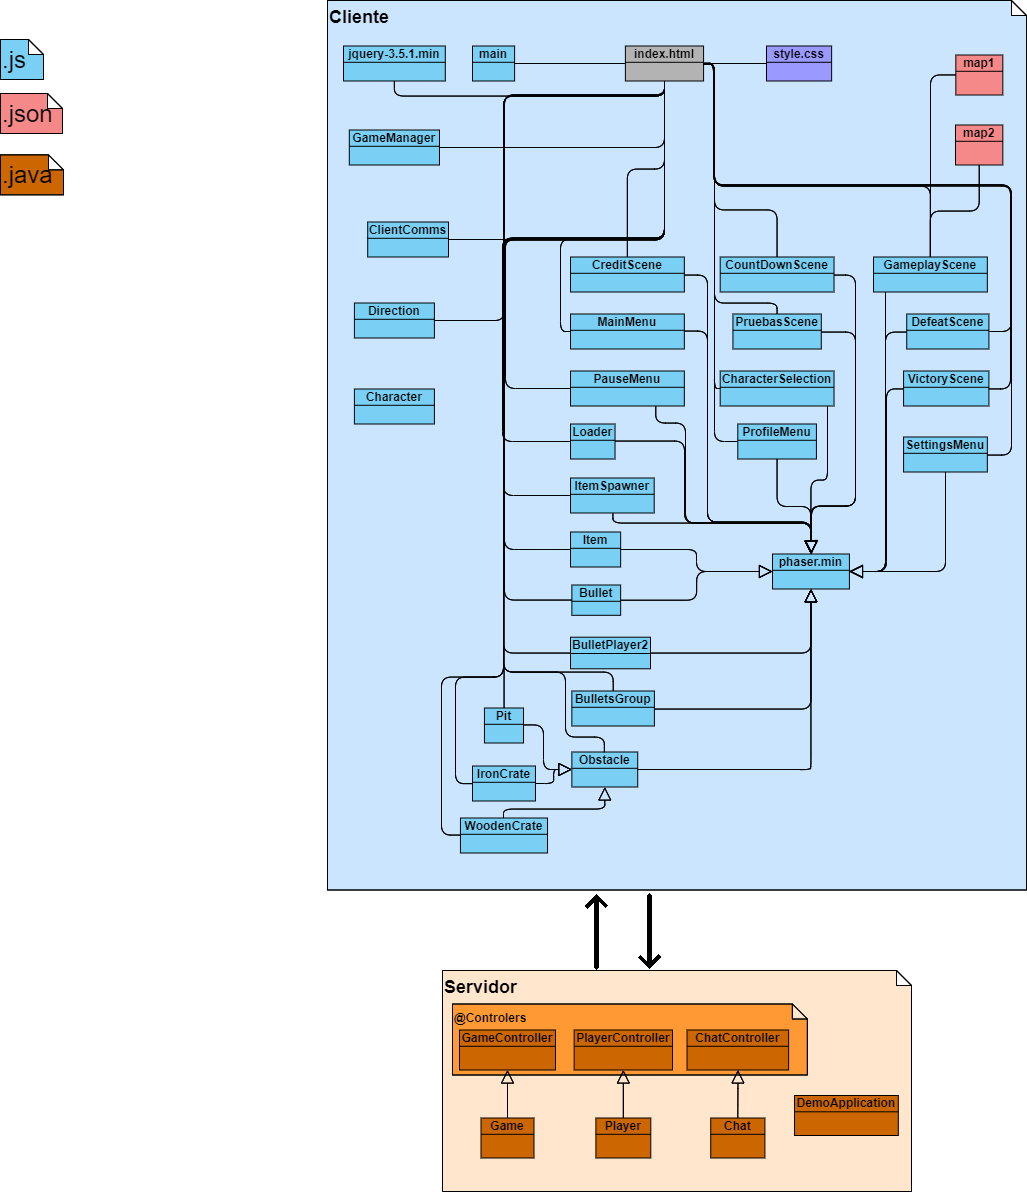
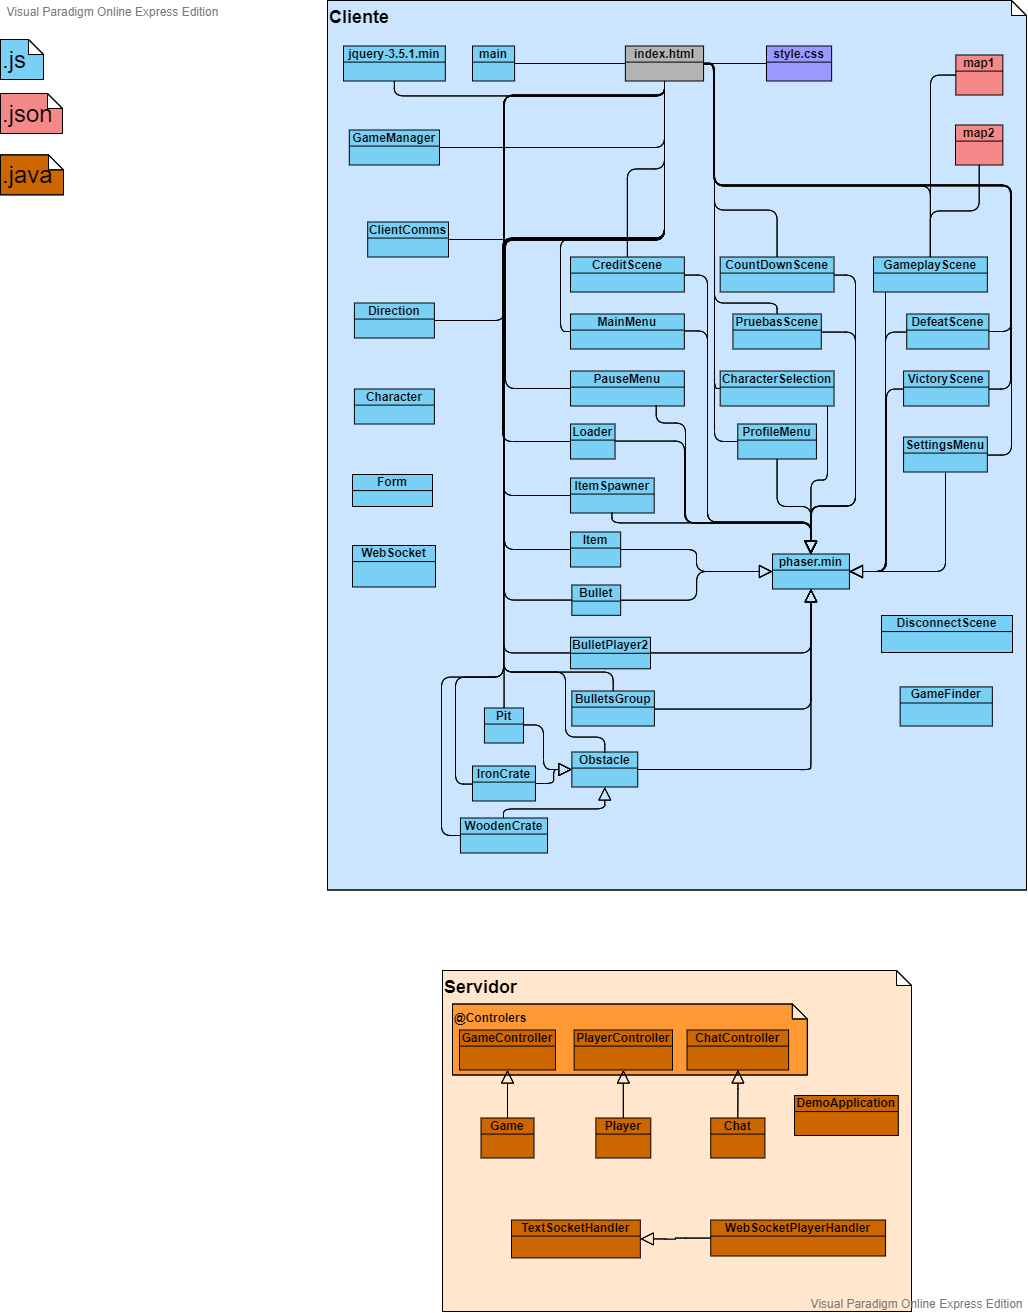
ReadMe Actualizado

Changed region(s): [[0.3116, 0.0, 1.0, 1.0], [0.0, 0.0, 0.2181, 0.1862], [0.4674, 0.2794, 0.4985, 0.3414]]

diff --git a/demo/target/classes/static/src/scenes/VictoryScene.js b/demo/target/classes/static/src/scenes/VictoryScene.js
@@ -11,16 +11,11 @@ class VictoryScene extends Phaser.Scene {
   create() {
     this.add.image(this.game.renderer.width / 2, this.game.renderer.height / 2, "MarcoPausa");
 
-    //añade el jugador que ha ganado
-    if (this.winner == 1) {
+    //Imagen victoria
       var victory = this.add
-        .image(this.game.renderer.width / 2, (this.game.renderer.height * 2) / 5, "VictoryJ1")
+        .image(this.game.renderer.width / 2, (this.game.renderer.height * 2) / 5, "Victory")
         .setScale(0);
-    } else if (this.winner == 2) {
-      var victory = this.add
-        .image(this.game.renderer.width / 2, (this.game.renderer.height * 2) / 5, "VictoryJ2")
-        .setScale(0);
-    }
+
     //Confeti
     var confeti1 = this.add.particles("confeti1");
     var confeti2 = this.add.particles("confeti2");
@@ -56,35 +51,42 @@ class VictoryScene extends Phaser.Scene {
       blendMode: "ADD",
     });
 
-    if(game.config.localMode){
+    if (game.config.localMode) {
       //boton de rematch
-    let rematchButton = this.add
-    .image(this.game.renderer.width / 2, (this.game.renderer.height * 2.9) / 5, "Purple_TextBox")
-    .setScale(0)
-    .setActive(false)
-    .setVisible(false);
+      let rematchButton = this.add
+        .image(
+          this.game.renderer.width / 2,
+          (this.game.renderer.height * 2.9) / 5,
+          "Purple_TextBox"
+        )
+        .setScale(0)
+        .setActive(false)
+        .setVisible(false);
 
-  rematchButton.setInteractive();
+      rematchButton.setInteractive();
 
-  let rematchText = this.add
-    .image(this.game.renderer.width / 2, (this.game.renderer.height * 2.9) / 5, "VolverAJugar")
-    .setScale(0)
-    .setActive(false)
-    .setVisible(false);
+      let rematchText = this.add
+        .image(this.game.renderer.width / 2, (this.game.renderer.height * 2.9) / 5, "VolverAJugar")
+        .setScale(0)
+        .setActive(false)
+        .setVisible(false);
 
-  //efectos al pasar el raton por encima
-  rematchButton.on("pointerover", () => {
-    rematchButton.setTint(0x909090);
-  });
-  rematchButton.on("pointerout", () => {
-    rematchButton.setTint();
-  });
+      //efectos al pasar el raton por encima
+      rematchButton.on("pointerover", () => {
+        rematchButton.setTint(0x909090);
+      });
+      rematchButton.on("pointerout", () => {
+        rematchButton.setTint();
+      });
 
-  //Al pulsar el boton recarga la escena de gameplay
-  rematchButton.on("pointerdown", () => {
-    this.scene.stop();
-    this.scene.start("GameplayScene");
-  });
+      //Al pulsar el boton recarga la escena de gameplay
+      rematchButton.on("pointerdown", () => {
+        this.scene.stop();
+        this.scene.start("GameplayScene");
+      });
+
+      rematchButton.setActive(false);
+      rematchButton.setVisible(false);
     }
 
     //boton de vuleta la menu principal
@@ -115,8 +117,6 @@ class VictoryScene extends Phaser.Scene {
       this.scene.start("MainMenu");
     });
 
-    rematchButton.setActive(false);
-    rematchButton.setVisible(false);
     mainMenuButton.setActive(false);
     mainMenuButton.setVisible(false);
 
@@ -126,16 +126,23 @@ class VictoryScene extends Phaser.Scene {
       delay: 1000,
       callback: () => {
         //al pasar 1 segundo aparecen los botones
-        rematchButton.setActive(true);
-        mainMenuButton.setActive(true);
-        rematchButton.setVisible(true);
+        if (game.config.localMode) {
+          rematchButton.setVisible(true);
+          rematchText.setVisible(true);
+
+          this.tweens.add({
+            targets: [rematchButton, rematchText],
+            scale: 0.2,
+            ease: "elastic",
+            duration: 100,
+          });
+        }
         mainMenuButton.setVisible(true);
-        rematchText.setVisible(true);
         mainMenuText.setVisible(true);
         this.sound.play("victorySound");
         //animacion de entrada
         this.tweens.add({
-          targets: [victory, rematchButton, rematchText, mainMenuButton, mainMenuText],
+          targets: [mainMenuButton, mainMenuText],
           scale: 0.2,
           ease: "elastic",
           duration: 100,

diff --git a/demo/target/classes/static/src/scenes/SettingsMenu.js b/demo/target/classes/static/src/scenes/SettingsMenu.js
@@ -18,31 +18,20 @@ class SettingsMenu extends Phaser.Scene {
       .image(this.game.renderer.width / 3.3, this.game.renderer.height * 0.2, "settingsTitle")
       .setScale(0.5);
     var sMusica = this.add
-      .image(this.game.renderer.width / 3.3, this.game.renderer.height * 0.5, "settingsMusica")
+      .image(this.game.renderer.width / 3.3, this.game.renderer.height * 0.55, "settingsMusica")
       .setScale(0.3);
-    var sIdioma = this.add
-      .image(this.game.renderer.width / 3.3, this.game.renderer.height * 0.8, "settingsIdioma")
-      .setScale(0.3);
-    var sESP = this.add
-      .image(this.game.renderer.width / 1.4, this.game.renderer.height * 0.8, "settingsESP")
-      .setScale(0.2)
-      .setTint(0x404040);
-    var sENG = this.add
-      .image(this.game.renderer.width / 1.2, this.game.renderer.height * 0.8, "settingsENG")
-      .setScale(0.2)
-      .setTint(0x404040);
 
     let muteMusicButton;
     if (this.game.sound.mute) {
       muteMusicButton = this.add.image(
-        this.game.renderer.width / 1.3,
-        this.game.renderer.height * 0.5,
+        this.game.renderer.width / 1.4,
+        this.game.renderer.height * 0.55,
         "muteDown"
       );
     } else {
       muteMusicButton = this.add.image(
-        this.game.renderer.width / 1.3,
-        this.game.renderer.height * 0.5,
+        this.game.renderer.width / 1.4,
+        this.game.renderer.height * 0.55,
         "muteUp"
       );
     }

diff --git a/demo/src/main/resources/static/src/scenes/CreditsScene.js b/demo/src/main/resources/static/src/scenes/CreditsScene.js
@@ -82,8 +82,8 @@ class CreditsScene extends Phaser.Scene {
     });
 
      //Creditos musica
-     this.add.text(10, 740, 'Música menú principal: Jincheng Zhang - Dark I Love You', { fontFamily: 'Georgia, "Goudy Bookletter 1911", Times, serif' });
-     this.add.text(770, 740, 'Música combate: datsflaze - Haste', { fontFamily: 'Georgia, "Goudy Bookletter 1911", Times, serif' });
+     this.add.text(10, 740, 'Música menú principal: Jincheng Zhang - Dark I Love You', { fontFamily: "Arial", fontSize: 16, color: "#ffffff" });
+     this.add.text(770, 740, 'Música combate: datsflaze - Haste', { fontFamily: "Arial", fontSize: 16, color: "#ffffff" });
 
 	if (ready) {
       var timer = this.time.addEvent({

diff --git a/demo/target/classes/static/src/scenes/CreditsScene.js b/demo/target/classes/static/src/scenes/CreditsScene.js
@@ -82,8 +82,8 @@ class CreditsScene extends Phaser.Scene {
     });
 
      //Creditos musica
-     this.add.text(10, 740, 'Música menú principal: Jincheng Zhang - Dark I Love You', { fontFamily: 'Georgia, "Goudy Bookletter 1911", Times, serif' });
-     this.add.text(770, 740, 'Música combate: datsflaze - Haste', { fontFamily: 'Georgia, "Goudy Bookletter 1911", Times, serif' });
+     this.add.text(10, 740, 'Música menú principal: Jincheng Zhang - Dark I Love You', { fontFamily: "Arial", fontSize: 16, color: "#ffffff" });
+     this.add.text(770, 740, 'Música combate: datsflaze - Haste', { fontFamily: "Arial", fontSize: 16, color: "#ffffff" });
 
 	if (ready) {
       var timer = this.time.addEvent({

diff --git a/demo/target/classes/static/src/scenes/Loader.js b/demo/target/classes/static/src/scenes/Loader.js
@@ -167,8 +167,7 @@ class Loader extends Phaser.Scene {
     this.load.image("Banner", "./assets/IU/banner.png");
 
     //Elementos de Texto
-    this.load.image("VictoryJ1", "./assets/text/VictoryJ1.png");
-    this.load.image("VictoryJ2", "./assets/text/VictoryJ2.png");
+    this.load.image("Victory", "./assets/text/Victory.png");
     this.load.image("Miau", "./assets/text/Miau.png");
     this.load.image("One", "./assets/text/One.png");
     this.load.image("Two", "./assets/text/Two.png");

diff --git a/demo/target/classes/static/src/scenes/GameplayScene.js b/demo/target/classes/static/src/scenes/GameplayScene.js
@@ -991,7 +991,7 @@ class GameplayScene extends Phaser.Scene {
       }
       inputsJSON += '],"alpha":' + alpha + "}";
 
-      if(disconnected){
+      if(!disconnected){
         connection.send(inputsJSON);
       }
 

diff --git a/README.md b/README.md
@@ -285,3 +285,19 @@ Para esta entrega no se han añadido nuevas escenas al juego.
 4. Esperar a que se actualice
 5. Click derecho en el proyecto -> Run as... -> Spring Boot App 
 6. Cargar en el navegador el Local Host, puerto 8080
+
+## Fase 4:
+### 7.1 Uso de WebSockets
+
+Al entrar a la pantalla de buscar partida se crea un WebSocket llamado conection y se conecta al servidor. Este WebSocket puede recibir varios tipos de mensajes dependiendo de la id con la que se manden:
+
+0: Se organiza la partida.
+1: Para los inputs de los jugadores. Se actualiza constantemente.
+2: Por si hay una desconexion de uno de los jugadores.
+3: Para iniciar los juegos a la vez.
+
+En la escena de GameFinder, si hay dos jugadores conectados esperando y pulsan "Miau", se inicia la partida. Dentro de la partida los inputs de los jugadores se guardan en strings y se mandan mediante WebSockets al servidor y luego unicamente al otro jugador que está en la partida con él, haciendo que se actualice el movimiento y el disparo del contrincante. 
+Para cerrar la sesión, se comprueba si en el juego hay alguien más, si eres el primero en desconectarse se cierra el WebSocket y se manda un mensaje al otro jugador para que cierre el juego, si eres el segundo se cierra el juego directamente. Basicamente, el primero que se desconecta fuerza al otro a desconectarse.
+
+### 7.2 Diagrama de clases
+El diagrama de clases está actualizado en el apartado 6.2
